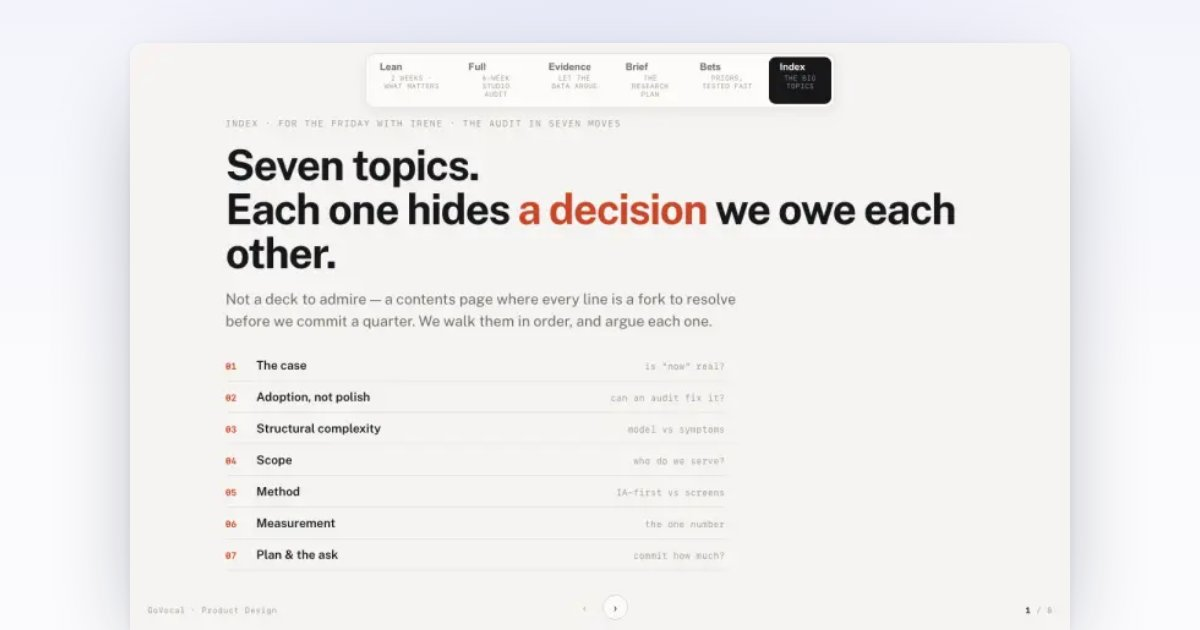
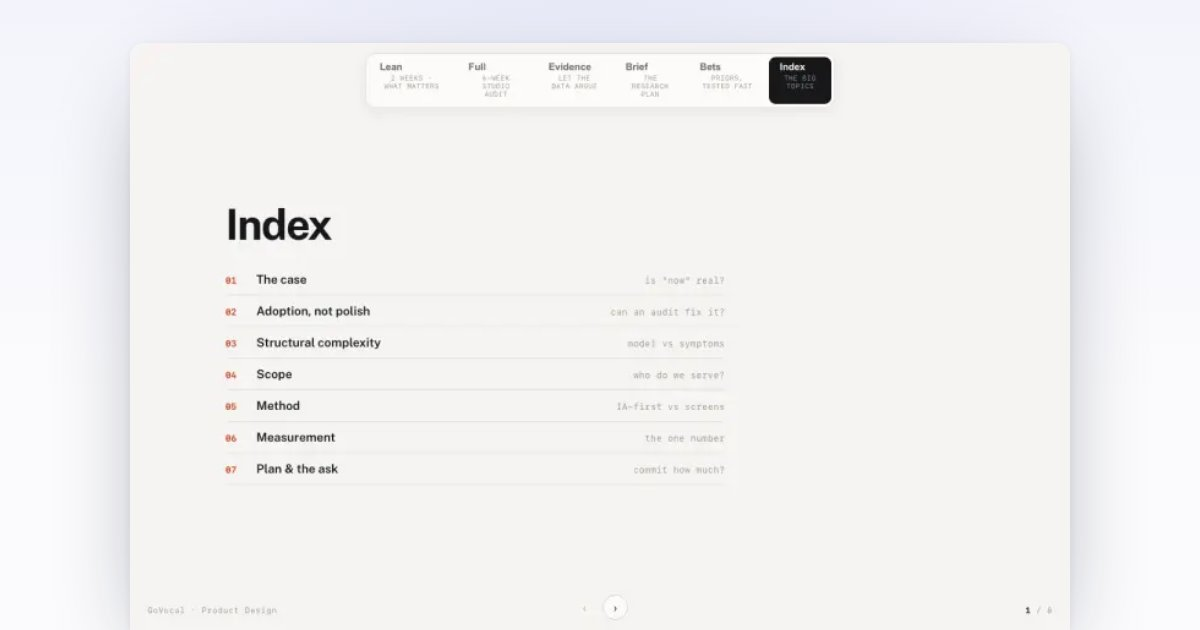
uxui-audit Index slide: strip to plain 'Index' label, drop eyebrow + framing copy

diff --git a/playground/uxui-audit-project/index.html b/playground/uxui-audit-project/index.html
@@ -950,9 +950,7 @@
   <div class="deck on" data-deck="index">
     <section class="slide">
       <div class="slide-inner">
-        <p class="eyebrow">Index · for the Friday with Irene · the audit in seven moves</p>
-        <h1>Seven topics.<br>Each one hides <span class="accent">a decision</span> we owe each other.</h1>
-        <p class="lead">Not a deck to admire — a contents page where every line is a fork to resolve before we commit a quarter. We walk them in order, and argue each one.</p>
+        <h1>Index</h1>
         <div class="index">
           <div><span class="n">01</span><span class="l">The case</span><span class="d">is "now" real?</span></div>
           <div><span class="n">02</span><span class="l">Adoption, not polish</span><span class="d">can an audit fix it?</span></div>
